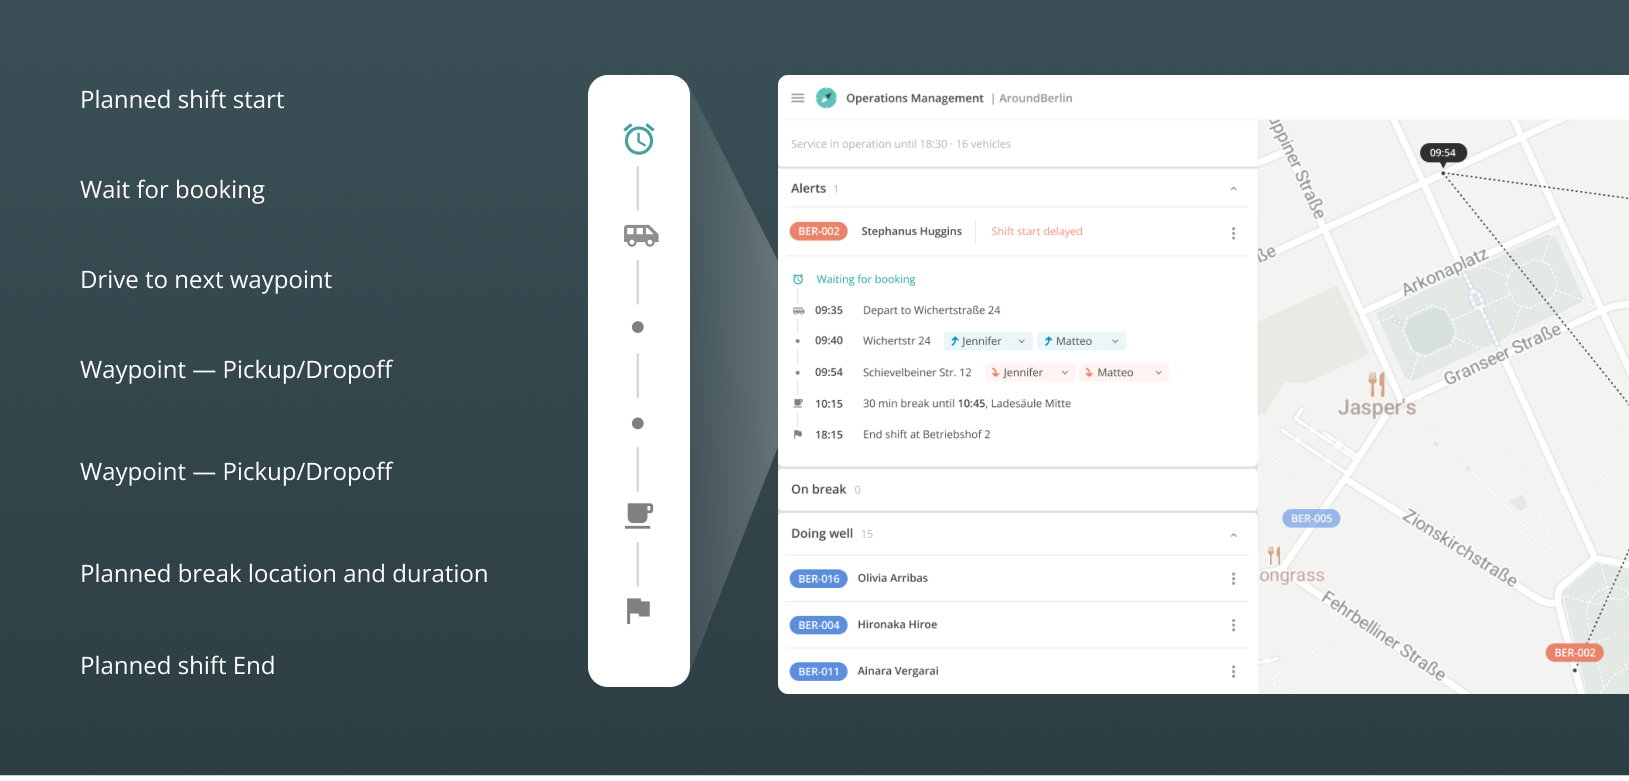
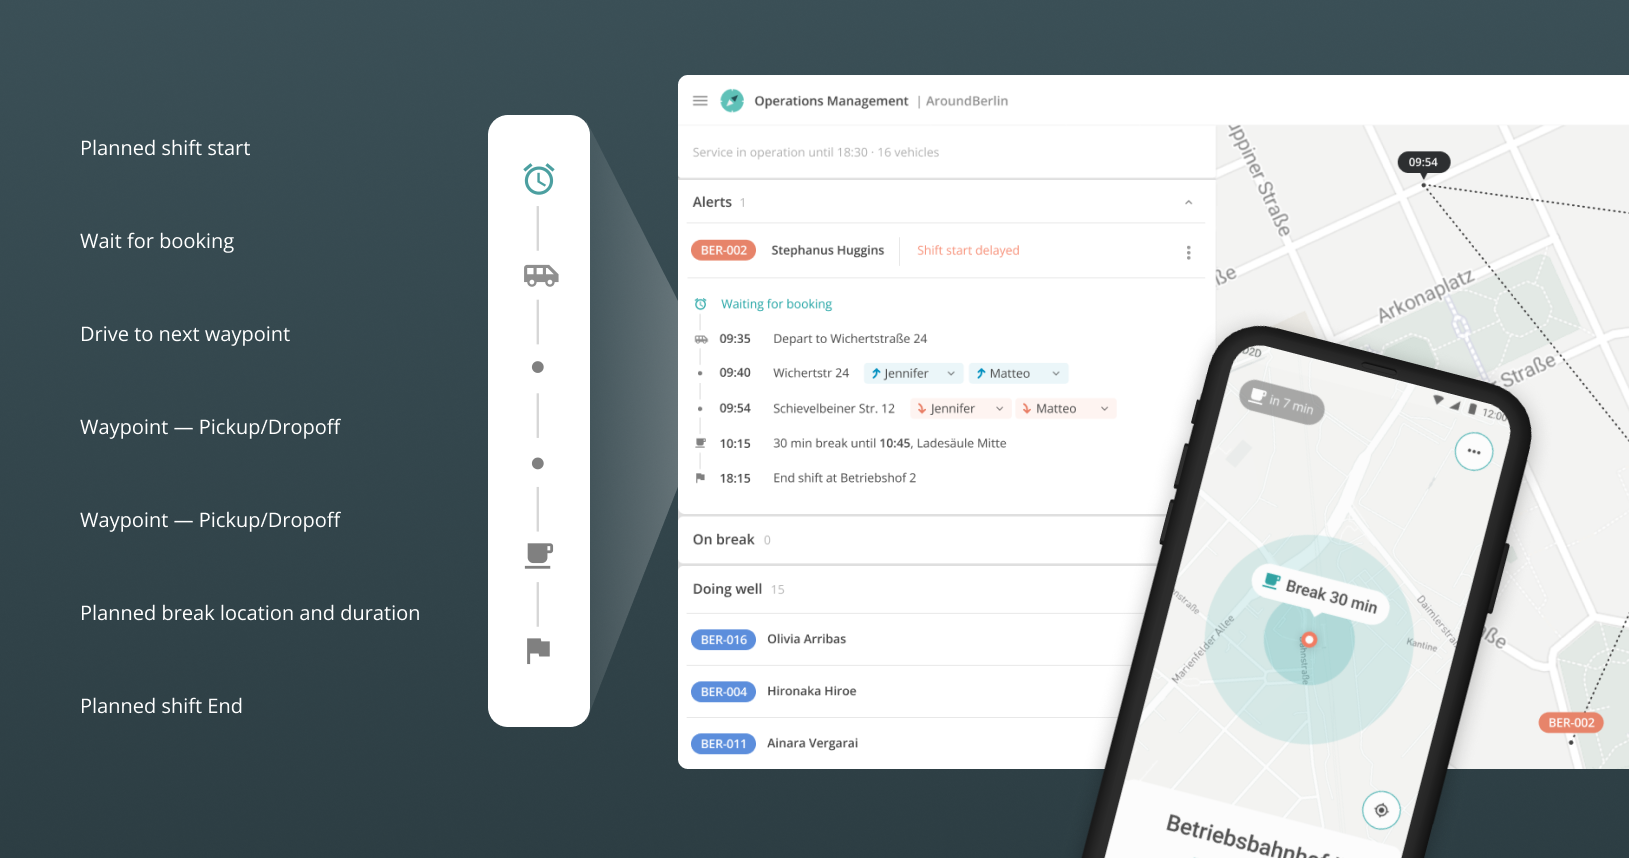
dd

diff --git a/door2door/index.html b/door2door/index.html
@@ -150,7 +150,7 @@
     <p class="caption">Integrating a prebooking flow into Passenger App.</p>
     <br/>
       <img class="img-responsive center-block rounded" src="/images/realtimeview.png" alt="">
-      <p class="caption">Schedule data (Shift start and end, Driver Break information) in the Realtime Monitoring UI. The view was redesigned to retain time continuity with multiple types of events.</p>
+      <p class="caption">Realtime Monitoring App and Driver App design updates: new timeline design and new event types</p>
       <br/>
 
       <img class="img-responsive center-block rounded" src="/images/d2d-handling.png" alt="">
